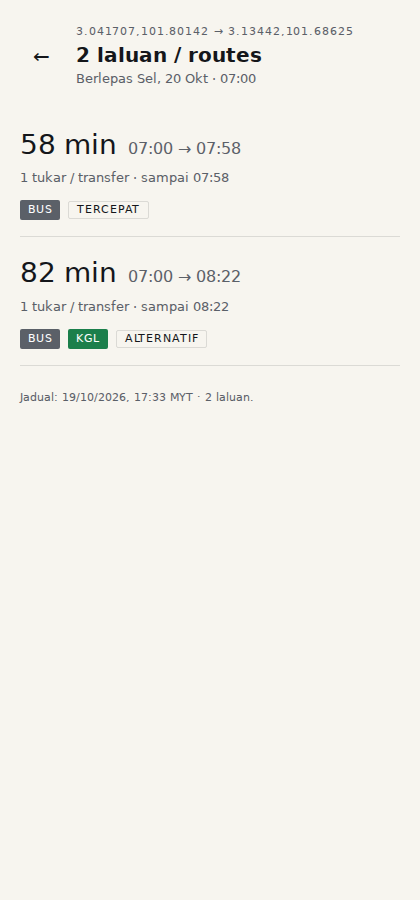
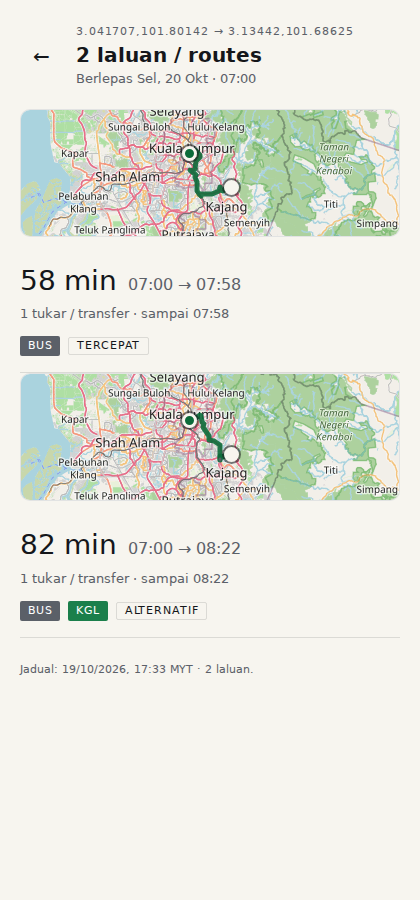
feat(map): live vehicles, real footpaths, leg focus, results previews
- Walk and transfer legs now carry from_point/to_point, and the API resolves
  each one through OSRM /route with full geometry (cached by coordinate pair).
  The dashed connectors remain only as a fallback for older responses.
- Ride legs expose from_point/to_point too. legPolyline now rejects an anchor
  more than 300 m off the shape: some loop patterns publish geometry that skips
  a detour (U5900 around KJ438), and those legs draw a faded straight line
  instead of a wrong or empty slice.
- /api/vehicles returns the latest positions for the requested route ids;
  Journey polls it every 20 s and the map shows blue dots with a delay tooltip.
- Tapping a step frames that leg (polyline, or its two endpoints) at max zoom 16;
  tapping again returns to the whole journey.
- Results cards render a compact, non-interactive RouteMap (348x126) above the
  card text.

Verified: 2 live 590 vehicles render as blue dots, 9 paths on the journey map,
tap-to-zoom changes the view to Pasar Seni, results show 2 preview maps and
ui:smoke passes (4 tiles, 7 paths).

diff --git a/src/components/RouteMap.tsx b/src/components/RouteMap.tsx
@@ -1,11 +1,12 @@
 import { useEffect, useRef } from "react";
 import L from "leaflet";
 import "leaflet/dist/leaflet.css";
-import type { Plan } from "../types";
+import type { Plan, Vehicle } from "../types";
 
 const RIDE_COLOR = "#0b6b3a";
 const PAPER = "#f7f5ef";
 const MUTED = "#5b6068";
+const VEHICLE = "#1d4ed8";
 
 const dotIcon = (color: string) =>
   L.divIcon({
@@ -15,51 +16,88 @@ const dotIcon = (color: string) =>
     iconAnchor: [7.5, 7.5],
   });
 
-/** Route map: GTFS shapes for ride legs, plain markers for the two ends. */
-export default function RouteMap({ plan }: { plan: Plan }) {
+type Props = {
+  plan: Plan;
+  /** Index of the leg to frame; null fits the whole journey. */
+  focus?: number | null;
+  vehicles?: Vehicle[];
+  /** Small, non-interactive preview (results cards). */
+  compact?: boolean;
+};
+
+/** Route map: GTFS shapes for rides, OSRM paths for walks, live vehicles on top. */
+export default function RouteMap({ plan, focus = null, vehicles = [], compact = false }: Props) {
   const node = useRef<HTMLDivElement | null>(null);
   const map = useRef<L.Map | null>(null);
-  const layer = useRef<L.LayerGroup | null>(null);
+  const base = useRef<L.LayerGroup | null>(null);
+  const moving = useRef<L.LayerGroup | null>(null);
+  const journeyBounds = useRef<L.LatLngBounds | null>(null);
 
   useEffect(() => {
-    if (!node.current) return;
-    if (!map.current) {
-      map.current = L.map(node.current, {
-        zoomControl: false,
-        scrollWheelZoom: false,
-        attributionControl: true,
-      });
-      L.tileLayer("https://tile.openstreetmap.org/{z}/{x}/{y}.png", {
-        maxZoom: 19,
-        attribution: '&copy; <a href="https://www.openstreetmap.org/copyright">OpenStreetMap</a>',
-      }).addTo(map.current);
-      layer.current = L.layerGroup().addTo(map.current);
-    }
+    if (!node.current || map.current) return;
+    const instance = L.map(node.current, {
+      zoomControl: false,
+      scrollWheelZoom: !compact,
+      dragging: !compact,
+      doubleClickZoom: !compact,
+      touchZoom: !compact,
+      boxZoom: false,
+      keyboard: false,
+      attributionControl: true,
+    });
+    L.tileLayer("https://tile.openstreetmap.org/{z}/{x}/{y}.png", {
+      maxZoom: 19,
+      attribution: '&copy; <a href="https://www.openstreetmap.org/copyright">OpenStreetMap</a>',
+    }).addTo(instance);
+    base.current = L.layerGroup().addTo(instance);
+    moving.current = L.layerGroup().addTo(instance);
+    map.current = instance;
 
-    const group = layer.current;
-    if (!group) return;
+    return () => {
+      instance.remove();
+      map.current = null;
+      base.current = null;
+      moving.current = null;
+    };
+  }, [compact]);
+
+  // Route geometry: redraws when the plan changes.
+  useEffect(() => {
+    const instance = map.current;
+    const group = base.current;
+    if (!instance || !group) return;
     group.clearLayers();
 
     const bounds: [number, number][] = [];
     const rides: [number, number][][] = [];
+    const walkDash = { color: MUTED, weight: 3, opacity: 0.9, dashArray: "5 5" };
+    const dashed = (a: [number, number], b: [number, number]) => L.polyline([a, b], walkDash).addTo(group);
+
     for (const leg of plan.legs) {
-      if (leg.kind !== "ride" || !leg.polyline?.length) continue;
-      L.polyline(leg.polyline, { color: RIDE_COLOR, weight: 5, opacity: 0.9, lineJoin: "round" }).addTo(group);
-      rides.push(leg.polyline);
-      bounds.push(...leg.polyline);
+      if (leg.polyline?.length) {
+        if (leg.kind === "ride") {
+          L.polyline(leg.polyline, { color: RIDE_COLOR, weight: 5, opacity: 0.9, lineJoin: "round" }).addTo(group);
+          rides.push(leg.polyline);
+        } else {
+          // Walk / transfer: the OSRM footpath when the API returned one.
+          L.polyline(leg.polyline, walkDash).addTo(group);
+        }
+        bounds.push(...leg.polyline);
+      } else if (leg.kind === "ride" && leg.from_point && leg.to_point) {
+        // The feed's shape does not cover this leg (loop detours); draw a faded straight line.
+        L.polyline([leg.from_point, leg.to_point], { color: RIDE_COLOR, weight: 3, opacity: 0.5, dashArray: "2 6" }).addTo(group);
+        rides.push([leg.from_point, leg.to_point]);
+        bounds.push(leg.from_point, leg.to_point);
+      }
     }
 
-    // Dashed connectors stand in for the walk to the first stop, transfers, and the final walk.
-    const dash = { color: MUTED, weight: 3, opacity: 0.85, dashArray: "4 6" };
-    if (plan.origin_point && rides[0]) {
-      L.polyline([plan.origin_point, rides[0][0]], dash).addTo(group);
-    }
-    for (let i = 1; i < rides.length; i++) {
-      L.polyline([rides[i - 1][rides[i - 1].length - 1], rides[i][0]], dash).addTo(group);
-    }
+    // Older responses carry no walking geometry: connect the ends with a straight dashed line.
+    if (plan.origin_point && rides[0] && !plan.legs[0]?.polyline) dashed(plan.origin_point, rides[0][0]);
+    for (let i = 1; i < rides.length; i++) dashed(rides[i - 1][rides[i - 1].length - 1], rides[i][0]);
     if (plan.destination_point && rides.length) {
       const last = rides[rides.length - 1];
-      L.polyline([last[last.length - 1], plan.destination_point], dash).addTo(group);
+      const tail = plan.legs[plan.legs.length - 1];
+      if (!tail?.polyline) dashed(last[last.length - 1], plan.destination_point);
     }
 
     if (plan.origin_point) {
@@ -71,19 +109,43 @@ export default function RouteMap({ plan }: { plan: Plan }) {
       bounds.push(plan.destination_point);
     }
 
-    if (bounds.length === 1) map.current.setView(bounds[0], 14);
-    else if (bounds.length > 1) map.current.fitBounds(L.latLngBounds(bounds), { padding: [22, 22] });
-    else map.current.setView([3.139, 101.6869], 10);
+    journeyBounds.current = bounds.length ? L.latLngBounds(bounds) : null;
+    if (bounds.length === 1) instance.setView(bounds[0], 14);
+    else if (bounds.length > 1) instance.fitBounds(L.latLngBounds(bounds), { padding: [22, 22], maxZoom: 15 });
+    else instance.setView([3.139, 101.6869], 10);
   }, [plan]);
 
-  useEffect(
-    () => () => {
-      map.current?.remove();
-      map.current = null;
-      layer.current = null;
-    },
-    [],
-  );
+  // Live vehicles.
+  useEffect(() => {
+    const group = moving.current;
+    if (!group) return;
+    group.clearLayers();
+    for (const vehicle of vehicles) {
+      if (!Number.isFinite(vehicle.lat) || !Number.isFinite(vehicle.lon)) continue;
+      const dot = L.circleMarker([vehicle.lat, vehicle.lon], {
+        radius: 5,
+        color: "#ffffff",
+        weight: 2,
+        fillColor: VEHICLE,
+        fillOpacity: 1,
+        className: "vehicle-dot",
+      });
+      const delay = vehicle.delay_min;
+      const label = `${vehicle.label ?? vehicle.route}${delay != null ? ` · ${delay >= 0 ? "+" : "−"}${Math.abs(delay)}′` : ""}`;
+      dot.bindTooltip(label, { direction: "top", offset: [0, -6] });
+      dot.addTo(group);
+    }
+  }, [vehicles]);
 
-  return <div className="map" ref={node} role="img" aria-label="Peta laluan / Route map" />;
+  // Zoom to one leg when the rider taps it.
+  useEffect(() => {
+    const instance = map.current;
+    if (!instance) return;
+    const leg = focus != null ? plan.legs[focus] : null;
+    const pts = leg?.polyline ?? (leg?.from_point && leg?.to_point ? [leg.from_point, leg.to_point] : null);
+    if (pts && pts.length > 1) instance.fitBounds(L.latLngBounds(pts), { padding: [30, 30], maxZoom: 16 });
+    else if (journeyBounds.current) instance.fitBounds(journeyBounds.current, { padding: [22, 22], maxZoom: 15 });
+  }, [focus, plan]);
+
+  return <div className={compact ? "map map--compact" : "map"} ref={node} role="img" aria-label="Peta laluan / Route map" />;
 }

diff --git a/src/screens/Journey.tsx b/src/screens/Journey.tsx
@@ -3,8 +3,9 @@ import Alert from "../components/Alert";
 import Button from "../components/Button";
 import LineBadge from "../components/LineBadge";
 import RouteMap from "../components/RouteMap";
+import { fetchVehicles } from "../api";
 import { lineShort } from "../data/lines";
-import type { Plan, PlanLeg } from "../types";
+import type { Plan, PlanLeg, Vehicle } from "../types";
 
 const kindLabel: Record<PlanLeg["kind"], string> = {
   walk: "JALAN / WALK",
@@ -33,6 +34,8 @@ const signed = (minutes: number) => (minutes === 0 ? "0" : `${minutes > 0 ? "+" 
 
 export default function Journey({ plan, onBack }: { plan: Plan; onBack: () => void }) {
   const [open, setOpen] = useState<number | null>(null);
+  const [focus, setFocus] = useState<number | null>(null);
+  const [vehicles, setVehicles] = useState<Vehicle[]>([]);
   const [now, setNow] = useState(klHM);
   const [punct, setPunct] = useState<Record<string, HourStat[]>>({});
   const [punctDays, setPunctDays] = useState(0);
@@ -41,6 +44,24 @@ export default function Journey({ plan, onBack }: { plan: Plan; onBack: () => vo
     const id = setInterval(() => setNow(klHM()), 30_000);
     return () => clearInterval(id);
   }, []);
+
+  // Live vehicles on the plan's routes, refreshed while the screen is open.
+  useEffect(() => {
+    const routes = [...new Set(plan.legs.map((leg) => leg.routeId).filter((id): id is string => Boolean(id)))];
+    if (!routes.length) return;
+    const ctrl = new AbortController();
+    const load = () => {
+      fetchVehicles(routes, ctrl.signal)
+        .then((list) => setVehicles(list))
+        .catch(() => {});
+    };
+    load();
+    const id = setInterval(load, 20_000);
+    return () => {
+      ctrl.abort();
+      clearInterval(id);
+    };
+  }, [plan]);
 
   useEffect(() => {
     const routes = [
@@ -95,7 +116,7 @@ export default function Journey({ plan, onBack }: { plan: Plan; onBack: () => vo
 
       {offline ? <Alert>Luar talian. Waktu dianggarkan. / Offline — times are estimates.</Alert> : null}
 
-      <RouteMap plan={plan} />
+      <RouteMap plan={plan} focus={focus} vehicles={vehicles} />
 
       <ol className="steps">
         {plan.legs.map((leg, index) => {
@@ -106,7 +127,11 @@ export default function Journey({ plan, onBack }: { plan: Plan; onBack: () => vo
           const isOpen = open === index;
 
           return (
-            <li key={`${leg.kind}-${leg.start}-${index}`} className={`step ${index === 0 ? "step--next" : ""}`}>
+            <li
+              key={`${leg.kind}-${leg.start}-${index}`}
+              className={`step ${index === 0 ? "step--next" : ""} ${focus === index ? "step--focus" : ""}`}
+              onClick={() => setFocus((current) => (current === index ? null : index))}
+            >
               <div className="step__time">{leg.start}</div>
               <div className="step__rail" aria-hidden="true">
                 <span className="step__dot" />

diff --git a/src/screens/Results.tsx b/src/screens/Results.tsx
@@ -1,6 +1,7 @@
 import LineBadge from "../components/LineBadge";
 import Button from "../components/Button";
 import Alert from "../components/Alert";
+import RouteMap from "../components/RouteMap";
 import { lineShort } from "../data/lines";
 import type { Plan } from "../types";
 
@@ -42,7 +43,8 @@ export default function Results({ plans, onBack, onSelect }: Props) {
           const lines = plan.legs.filter((leg) => leg.line).map((leg) => leg.line!);
           const unique = [...new Set(lines)];
           return (
-            <li key={`${plan.depart}-${plan.arrive}-${index}`}>
+            <li key={`${plan.depart}-${plan.arrive}-${index}`} className="route-item">
+              <RouteMap plan={plan} compact />
               <button type="button" className="route" onClick={() => onSelect(index)}>
                 <div className="route__top">
                   <span className="route__time">{plan.total_minutes} min</span>

diff --git a/src/api.ts b/src/api.ts
@@ -1,4 +1,4 @@
-import type { Plan } from "./types";
+import type { Plan, Vehicle } from "./types";
 
 type Options = { fromName?: string; toName?: string; at?: string; signal?: AbortSignal };
 
@@ -76,4 +76,16 @@ export async function fetchPlaceById(id: string, signal?: AbortSignal): Promise<
   const body = await res.json();
   if (!Number.isFinite(body.lat) || !Number.isFinite(body.lon)) return null;
   return body as ResolvedPlace;
+}
+
+export async function fetchVehicles(routes: string[], signal?: AbortSignal): Promise<Vehicle[]> {
+  const unique = [...new Set(routes.filter(Boolean))];
+  if (!unique.length) return [];
+  const res = await fetch(`/api/vehicles?routes=${encodeURIComponent(unique.join(","))}`, {
+    signal,
+    headers: { accept: "application/json" },
+  });
+  if (!res.ok) return [];
+  const body = await res.json();
+  return Array.isArray(body.vehicles) ? (body.vehicles as Vehicle[]) : [];
 }

diff --git a/src/types.ts b/src/types.ts
@@ -19,6 +19,9 @@ export type PlanLeg = {
   to?: string;
   /** GTFS shape between boarding and alighting: [[lat, lon], ...] */
   polyline?: [number, number][];
+  /** Walk/transfer endpoints; the API fills polyline from OSRM when it can. */
+  from_point?: [number, number];
+  to_point?: [number, number];
   live?: { vehicles: number; delay_min: number; updated_at: string; feed?: string };
 };
 
@@ -35,4 +38,17 @@ export type Plan = {
   clock?: string;
   warning?: string;
   legs: PlanLeg[];
+};
+
+export type Vehicle = {
+  id: string;
+  route: string;
+  label?: string;
+  feed?: string;
+  trip?: string;
+  lat: number;
+  lon: number;
+  bearing?: number | null;
+  delay_min?: number;
+  near_stop?: string;
 };

diff --git a/src/styles/app.css b/src/styles/app.css
@@ -160,6 +160,23 @@ button {
   box-shadow: 0 0 0 2px rgba(20, 22, 26, 0.55);
 }
 
+/* Results preview: decorative only, so taps fall through to the card. */
+.map--compact {
+  height: 128px;
+  margin: 0 0 var(--space-2);
+  pointer-events: none;
+}
+
+.map--compact .leaflet-control-attribution {
+  display: none;
+}
+
+.step--focus .step__title {
+  text-decoration: underline;
+  text-decoration-thickness: 2px;
+  text-underline-offset: 4px;
+}
+
 /* Search-as-you-type list, anchored under the input. Stops come first, places after. */
 .suggest {
   position: absolute;

diff --git a/README.md b/README.md
@@ -34,11 +34,18 @@ centroid. Distances use the last "use my location" or the other field as the ref
 ## Map
 
 The journey screen draws the route on a Leaflet map with OpenStreetMap raster tiles (attribution
-required, light personal use). Ride legs use the GTFS `shapes.txt` geometry, sliced between the
-boarding and alighting stops: each stop is anchored to the nearest shape point, searching forward
-only so loop services do not fold back on themselves, then the slice is downsampled to 300 points.
-Walks and transfers are dashed straight connectors — the OSRM footpath geometry is not in the
-response yet. KTMB publishes no shapes, so its legs have no line.
+required, light personal use).
+
+- Ride legs use GTFS `shapes.txt`, sliced between the boarding and alighting stops. Each stop is
+  anchored to the nearest shape point with a forward-only search so loop services do not fold
+  back; a stop more than 300 m off the shape means the feed's geometry skips that detour, and the
+  leg is drawn as a faded straight line instead. Slices are downsampled to 300 points.
+- Walk and transfer legs use the OSRM footpath geometry, requested once per leg at response time
+  and cached by coordinate pair.
+- Live vehicles on the plan's routes are blue dots, refreshed every 20 s from `/api/vehicles`.
+- Tapping a step in the itinerary zooms the map to that leg; tapping it again returns to the
+  whole journey.
+- The results screen shows a compact, non-interactive preview map per route.
 
 ## Data pipeline
 

diff --git a/NEXT.md b/NEXT.md
@@ -40,7 +40,8 @@ changes, not when plans are made (plans belong in `BACKLOG.md`).
   leg when the hour has at least 8 buckets; the footnote states how many days of history exist.
   As of 2026-10-19 that is **1 day** — treat it as a pipeline that improves, not a verdict.
 - The Journey screen has a map: GTFS shapes for each ride leg (sliced between boarding and
-  alighting, loop-safe), dashed straight connectors for walks/transfers, and the two endpoints.
+  alighting, loop-safe), OSRM footpaths for walks, live vehicle dots, and tap-a-step to zoom.
+  Results cards carry a compact preview map.
 - Search is type-ahead: stops from the local index appear instantly, place suggestions (Google
   Places when keyed, Nominatim otherwise) slide in under them, and picking a result fills the
   field with coordinates (so "Bandar Utama" is the station, not the suburb). Keyboard: ↑/↓ +
